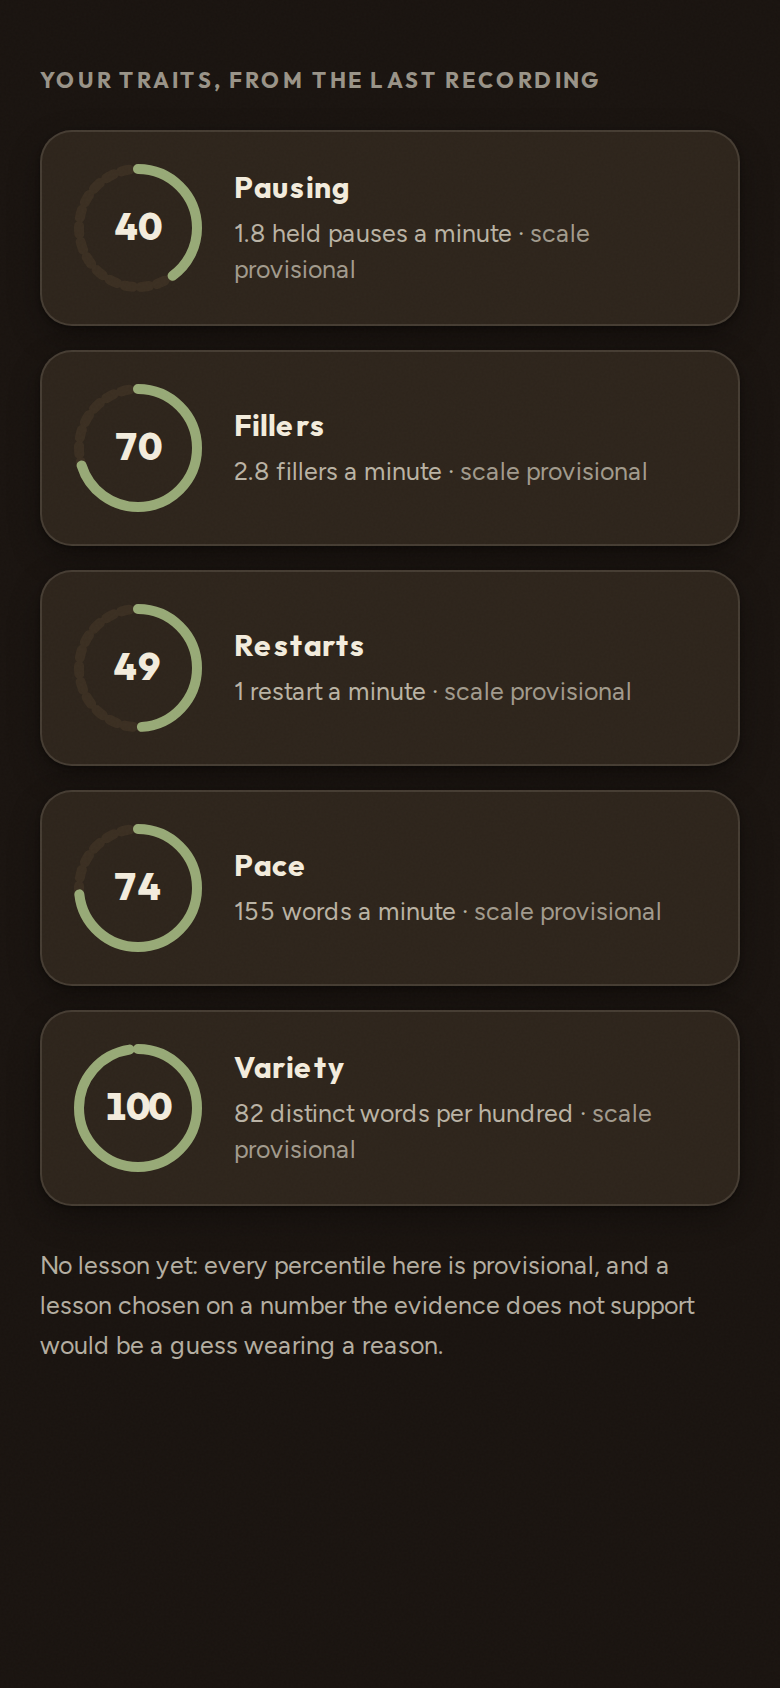
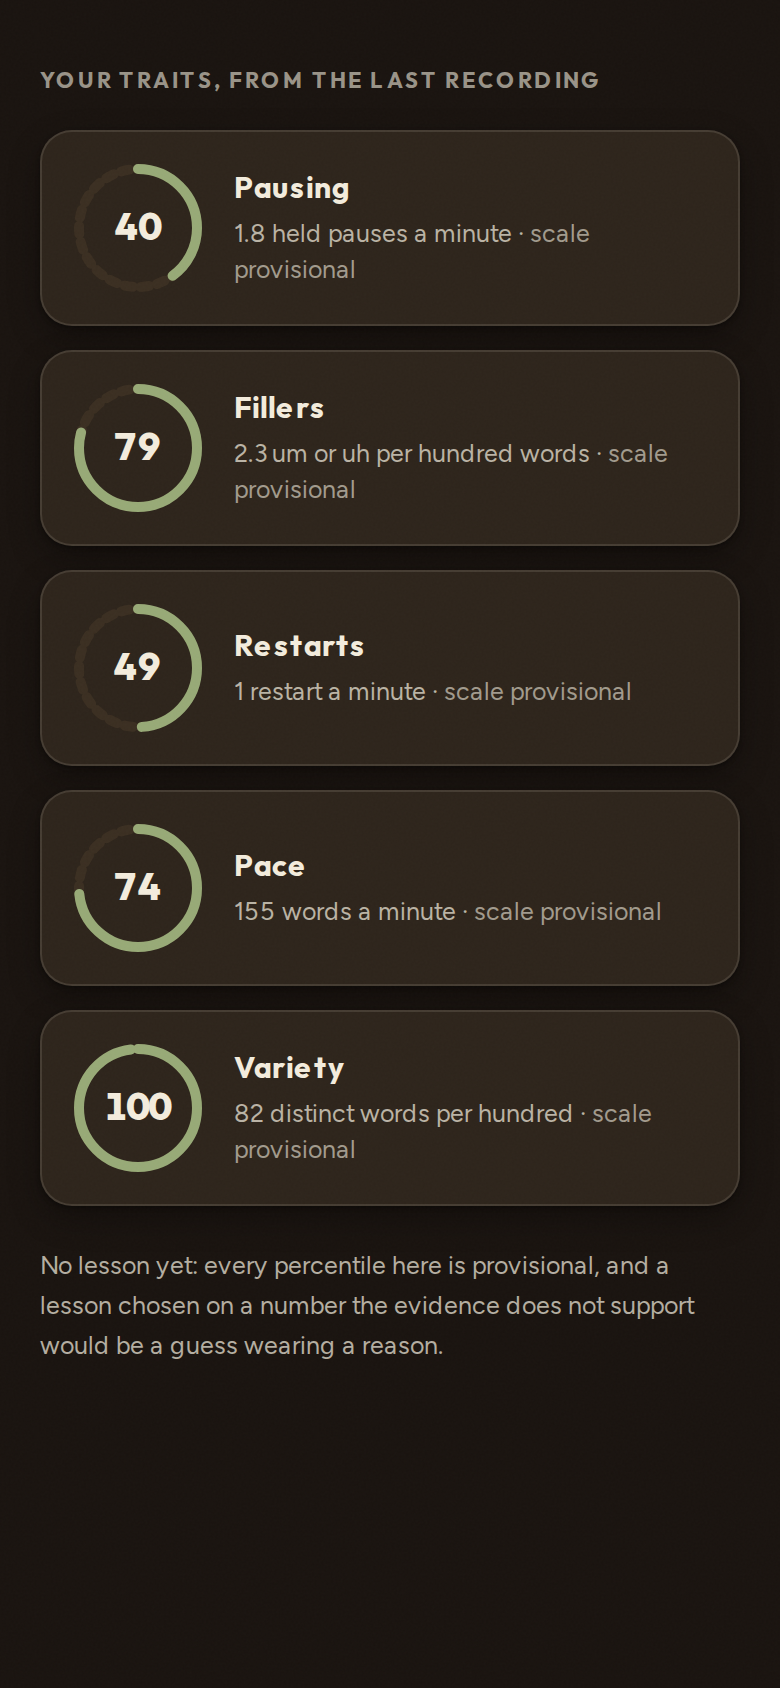
THE SHIFT: the decision log, #260 and #261, and the gym off the front door
README opened on "a daily gym for speech. Five minutes of reps a day",
which is the one banned register in the first line anyone reads.

Claude-Session: https://claude.ai/code/session_01ByViNHuJd3sP9TnXSHXejq

Changed region(s): [[0.2769, 0.2156, 0.8615, 0.3081], [0.1538, 0.2464, 0.2154, 0.2773], [0.0923, 0.2464, 0.1231, 0.2773]]

diff --git a/DECISIONS.md b/DECISIONS.md
@@ -372,6 +372,10 @@ Locked means locked. Reopen only with user data or Timothy's explicit call.
 
 259. 2026-09-13 · **The closure research, and the famous mechanism failing** · `docs/closure.md`, three researchers on task closure, goal gradients and rings in practice, reading primary papers with instructions to say loudly where a repeated claim turned out to be poorly supported. **Zeigarnik does not survive**: pooled recall ratio 0.99 across 38 publications, 0.99 again with Zeigarnik's own outlying 1927 study removed, and it goes NEGATIVE (0.88) in achievement-scored settings, which is what Ethos is by construction. So no cliffhangers, no truncated results, no half-finished card. What holds is less decorative: progress monitoring raises goal attainment across 138 randomised trials, N = 19,951, d+ = 0.40, which is Ethos's premise already right — with two moderators that change the build, that the number must be RECORDED and that monitoring an outcome moves outcomes while monitoring a behaviour moves behaviour, so one number cannot do both jobs. **A percentile is not a closable loop**: Apple's rings close because Move, Exercise and Stand are behaviours you control in the next hour, and every non-Apple competitor ships a state display that never closes plus an explicit rest mode. **The boomerang is the biggest risk and it hits the best users**: a bare descriptive norm made above-average households use more energy, and an injunctive cue removed it, so a trait card must never be only a position. Sixteen mechanisms to use with their effect sizes, eleven to reject with the reason.
 
+260. 2026-09-13 · **The ring is drawn from um and uh alone, and per hundred words** · `lib/metrics.ts` gains `filledPauseCount` and `filledPer100`, and `lib/trait-readings.ts` reads the Fillers trait off the second of those. The distribution research came back with a blocker that is not about sample size: a **construct mismatch**. Every published rate it could reach (Bortfeld 2001, Shriberg 1996, Clark and Fox Tree 2002) counts filled pauses and nothing else, while `fillersPerMin` also counts like, you know, sort of, kind of, basically, actually and literally. Placing somebody against one set while measuring the other is a subtraction between two different quantities wearing the word percentile, and it fails worst on exactly the people Ethos serves: Tagliamonte found 8 of 18 Toronto speakers aged 10 to 19 used "like" more often than "and", so a 17 year old would be told they are unusually disfluent for saying a word their whole year level says. **Per hundred WORDS rather than per minute** for a second reason from the same research: per minute rewards talking faster, and the same speaker at 120 and at 160 words a minute, saying "um" exactly as often per sentence, appears to have cut a third of them. There is a test for that. What does NOT change: `fillersPerMin`, `fillerScore` and the Index are untouched, and the discourse markers stay counted and timestamped on the results screen. They are real and users care about them; they are just not something a position can be claimed about. No migration, because every stored hit already carries the word it matched.
+
+261. 2026-09-13 · **The shift's camera, and light beside dark rather than after it** · `scripts/look-shift.mjs` shoots the four things the shift introduces at the same 390px and the same two themes as `look.mjs`, and `scripts/gallery-shift.mjs` composes them. Two details worth keeping: the camera waits a beat past the skeleton check, because a ring starts at zero and travels on the next frame and a shot taken on arrival photographs five empty troughs; and the sheet puts light and dark side by side in each row instead of running one theme after the other, because the comparison worth making is between the themes and not between the halves of a long scroll. A row of one shot per theme leaves most of the sheet empty, so its caption stands in that space, and the before shot is cropped to the part its row is arguing about rather than running its full scroll and dwarfing everything it is being compared against.
+
 ## Open queue (research-once, decide, move up)
 
 - Currency name — after launch copywriting pass

diff --git a/README.md b/README.md
@@ -1,7 +1,7 @@
 # Ethos
 
-A daily gym for speech. Five minutes of reps a day until speaking clearly
-under pressure is a trait, not a performance.
+Five minutes of speaking a day, measured, until speaking clearly under
+pressure is a trait, not a performance.
 
 ## Run it
 
@@ -13,10 +13,10 @@ npm test                     # metrics engine unit tests
 ```
 
 - `OPENAI_API_KEY` — required. Whisper transcription is the engine's input.
-- `ANTHROPIC_API_KEY` — optional. Powers focus/supply/coach; without it the
-  rep still returns real numbers with a deterministic coach line.
+- `ANTHROPIC_API_KEY` — optional. Powers focus/supply/coach; without it a
+  recording still returns real numbers with a deterministic coach line.
 - Supabase vars — optional. Run `supabase/migrations/0001_schema_v1.sql`
-  against a project to store reps; without them nothing persists.
+  against a project to store recordings; without them nothing persists.
 - `PREMIUM_UNLOCK_CODE` — the invite code `/api/redeem` accepts while
   there's no payment processor. Unset = codes are off.
 - VAPID + `CRON_SECRET` vars — real (server-sent) reminders. Generate the
